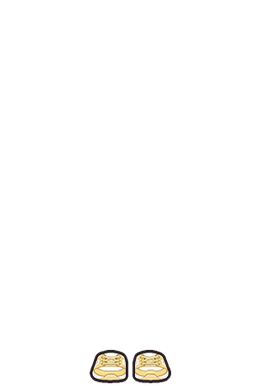
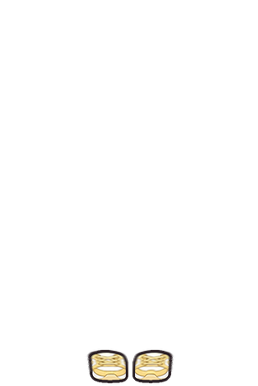
신발 발목 쪽을 넓혀 다리 선과 이어지게 / 가죽 재킷·검정 도복 새 그림으로 다시 가게에, 한벌에 흰 가운·흰 도복 세트 / 그리기용 기본형(흰 배경, 516×772)
Claude-Session: https://claude.ai/code/session_015VxnKS3baGbwJXJNNp74ix

Changed region(s): [[0.3411, 0.9016, 0.6822, 0.9637]]

diff --git a/avatar.js b/avatar.js
@@ -11,10 +11,10 @@ const AV_EAR = new Set([0, 1, 4, 5, 6, 7, 9, 10, 14, 15, 16, 17, 18, 19, 20, 21,
 const AV_NAMES = {
   hair: ["부스스 짧은 머리", "레이어드 단발", "일자 단발", "웨이브 단발", "짧은 스포츠머리", "뾰족 머리", "뽀글 머리", "똥머리", "긴 생머리", "양 똥머리", "양 갈래 땋은 머리", "긴 웨이브", "앞머리 양 똥머리", "앞머리 똥머리", "어깨 웨이브", "양 갈래 머리", "앞머리 단발", "가르마 짧은 머리", "쉼표 머리", "앞머리 긴 웨이브", "삐죽 머리", "곱슬 머리", "올린 삐죽 머리", "옆 가르마 머리"],
   top: ["세일러 블라우스", "크림 후드티", "검정 재킷", "분홍 가디건", "고양이 후드티", "흰 셔츠", "야구 점퍼", "곰돌이 니트", "검정 프릴 블라우스", "줄무늬 티", "하얀 패딩", "빨간 망토", "카키 야상", "멜빵 원피스", "검정 후드티", "레이스 블라우스",
-    "경찰 제복", "소방관 옷", "빨간 로봇 슈트", "군복 셔츠", "우주인 점퍼", "축구 유니폼", "레이싱 점퍼", "해적 조끼", "도복", "가죽 재킷", "해골 후드티",
+    "경찰 제복", "소방관 옷", "빨간 로봇 슈트", "군복 셔츠", "우주인 점퍼", "축구 유니폼", "레이싱 점퍼", "해적 조끼", "검정 도복", "가죽 재킷", "해골 후드티",
     "빨간 리본 세일러", "얼음 공주 드레스", "백설 공주 드레스", "별 가디건", "분홍 블레이저", "민트 블라우스", "보라 조끼", "살구 블라우스", "체크 블레이저", "딸기 블라우스", "하늘 조끼", "하트 가디건",
     "의사 가운", "요리사 옷", "승무원 재킷", "갈색 가디건", "농구 유니폼", "야구 유니폼", "탐험가 셔츠", "앞치마",
-    "산타 옷", "산타 원피스", "요정 옷", "눈사람 옷", "진저브레드 옷", "루돌프 옷", "트리 스웨터 잠옷", "호두까기 인형 옷", "의사 가운 세트", "요리사 세트", "멜빵바지 세트", "승무원 세트", "기장 세트", "가디건 세트"],
+    "산타 옷", "산타 원피스", "요정 옷", "눈사람 옷", "진저브레드 옷", "루돌프 옷", "트리 스웨터 잠옷", "호두까기 인형 옷", "의사 가운 세트", "요리사 세트", "멜빵바지 세트", "승무원 세트", "기장 세트", "가디건 세트", "흰 가운 세트", "흰 도복 세트"],
   shoes: ["맨발", "민트 운동화", "빨간 찍찍이 운동화", "곰돌이 슬리퍼", "검정 운동화", "하늘 고무신발", "남색 슬립온", "갈색 구두", "노란 운동화", "분홍 리본 구두"],
   eye: ["기본 눈", "날렵한 눈", "졸린 눈", "웃는 눈", "윙크", "반짝 눈", "울먹 눈", "화난 눈", "옆 보는 눈", "걱정 눈", "놀란 눈", "시큰둥 눈", "하트 눈", "빙글빙글 눈", "속눈썹 눈", "점 눈"],
   cheek: ["볼터치 없음", "볼 정중앙", "콧잔등 + 주근깨", "볼 정중앙 + 주근깨", "빗금 볼터치", "작은 동그라미", "콧잔등", "크게 발그레"],
@@ -29,7 +29,7 @@ AV_NAMES.pet = ["펫 없음", "강아지", "삼색 고양이", "토끼", "햄스
 const AV_PRICE = {
   pet: [0, 12, 12, 12, 12, 12, 14, 16, 18, 16, 16, 18, 20, 14, 14, 14, 14, 15, 15, 16, 15], // 0이면 무료 (기본으로 입는 것)
   hair: [0, 6, 6, 7, 5, 7, 8, 8, 0, 9, 9, 8, 9, 8, 8, 8, 0, 6, 6, 8, 0, 8, 7, 6], // 20·16: 처음 머리 (남·여)
-  top: [8, 7, 9, 7, 9, 0, 10, 8, 9, 0, 9, 10, 9, 9, 8, 10, 10, 10, 12, 9, 12, 9, 11, 11, 10, 11, 10, 9, 12, 12, 9, 10, 9, 10, 9, 11, 9, 10, 9, 11, 10, 11, 8, 10, 10, 10, 9, 14, 14, 14, 13, 13, 13, 12, 14, 12, 12, 11, 12, 12, 10],
+  top: [8, 7, 9, 7, 9, 0, 10, 8, 9, 0, 9, 10, 9, 9, 8, 10, 10, 10, 12, 9, 12, 9, 11, 11, 10, 11, 10, 9, 12, 12, 9, 10, 9, 10, 9, 11, 9, 10, 9, 11, 10, 11, 8, 10, 10, 10, 9, 14, 14, 14, 13, 13, 13, 12, 14, 12, 12, 11, 12, 12, 10, 12, 11],
   shoes: [0, 0, 6, 8, 5, 6, 5, 7, 6, 7],
   eye: Array(16).fill(0), mouth: Array(16).fill(0), cheek: Array(8).fill(0), // 눈·입·볼터치는 모두 무료
   bottom: [6, 6, 0, 0, 7, 6, 7, 8, 7, 0, 8, 7, 6, 7, 6, 7, 6, 6, 6, 6, 6, 8, 7, 7, 7, 8, 6, 6, 8, 6, 9, 7, 7, 7, 7, 7, 7, 7, 8, 7],
@@ -38,10 +38,10 @@ const AV_ITEMS = Object.entries(AV_NAMES).flatMap(([slot, names]) => names.map((
 const AV_REQ = { pet: "pet-0", shoes: "shoes-1", eye: "eye-0", mouth: "mouth-0", cheek: "cheek-1", hair: "hair-20", top: "top-5", bottom: "bottom-9" }; // 기본 옷 (흰 셔츠·카키 반바지·민트 운동화). 이 칸들은 벗을 수 없어 늘 입고 있음
 const AV_ACC = []; // 장신구 칸 (아직 없음)
 const AV_TABS = [["eye", "눈"], ["mouth", "입"], ["cheek", "볼터치"], ["hair", "헤어"], ["top", "상의"], ["bottom", "하의"], ["full", "한벌"], ["shoes", "신발"], ["pet", "펫"]];
-const AV_FULL = new Set(["top-55", "top-56", "top-57", "top-58", "top-59", "top-60", "top-47", "top-48", "top-49", "top-50", "top-51", "top-52", "top-53", "top-54"]); // 위아래 한 벌 옷: 입으면 하의를 안 그림. 가게에서는 '한벌' 칸
+const AV_FULL = new Set(["top-61", "top-62", "top-55", "top-56", "top-57", "top-58", "top-59", "top-60", "top-47", "top-48", "top-49", "top-50", "top-51", "top-52", "top-53", "top-54"]); // 위아래 한 벌 옷: 입으면 하의를 안 그림. 가게에서는 '한벌' 칸
 // 가게에서 뺀 옷: 몸에 꼭 맞지 않는 상의·하의 (이미 산 학생은 그대로 입고 있음. 번호는 그대로 둬야 산 기록이 안 꼬임)
-const AV_V = "?v=16"; // 그림을 고치면 숫자를 올림 (브라우저에 남은 옛 그림 대신 새로 받게)
-const AV_HIDE = new Set(["shoes-0", "shoes-9", ...[0, 1, 2, 3, 4, 5, 6, 7, 8, 9, 10, 11].map(i => "hair-" + i), ...[6, 16, 17, 18, 19, 20, 21, 22, 23, 26, 39, 40, 41, 42, 43, 24, 25, 27, 28, 29, 30, 31, 32, 33, 34, 35, 36, 37, 38, 44, 45, 46].map(i => "top-" + i),
+const AV_V = "?v=17"; // 그림을 고치면 숫자를 올림 (브라우저에 남은 옛 그림 대신 새로 받게)
+const AV_HIDE = new Set(["shoes-0", "shoes-9", ...[0, 1, 2, 3, 4, 5, 6, 7, 8, 9, 10, 11].map(i => "hair-" + i), ...[6, 16, 17, 18, 19, 20, 21, 22, 23, 26, 39, 40, 41, 42, 43, 27, 28, 29, 30, 31, 32, 33, 34, 35, 36, 37, 38, 44, 45, 46].map(i => "top-" + i),
   ...[7, 13, 14, 15, 17, 19, 20, 21, 22, 23, 27, 29, 32, 33, 34, 35, 36, 37, 38, 39].map(i => "bottom-" + i)]); // 하의: 긴 바지·롱스커트(안 맞음)와 비슷한 것 중 덜 맞는 쪽
 const avInTab = (it, k) => !AV_HIDE.has(it.id) && (k === "acc" ? AV_ACC.includes(it.slot) : k === "full" ? AV_FULL.has(it.id) : k === "top" ? it.slot === "top" && !AV_FULL.has(it.id) : it.slot === k); // 가게 칸에 보일 물건
 // 단위에 맞춘 글: "3 으쓱이 모자라요", "3으쓱으로 바꾸기" (이/가, 으로/로)

diff --git a/index.html b/index.html
@@ -1633,7 +1633,7 @@
     <button class="danger" onclick="resetEverything()">모든 데이터 초기화</button>
   </section>
 </div>
-<script src="avatar.js?v=16"></script><!-- 아바타를 고치면 avatar.js의 AV_V와 같이 숫자를 올림 -->
+<script src="avatar.js?v=17"></script><!-- 아바타를 고치면 avatar.js의 AV_V와 같이 숫자를 올림 -->
 <script>
 setTimeout(() => document.body.classList.add("ready"), 2000); // 혹시 아래에서 오류가 나도 2초 뒤엔 카드를 보여 줌
 // 다른 창(듀얼 모니터)으로 뗀 카드: { 카드: { w: 창, c: 카드, mark: 보드에 돌아올 자리, np: 글자 도구 창 } }

diff --git a/student.html b/student.html
@@ -159,7 +159,7 @@
     </div>
   </div>
 </div>
-<script src="avatar.js?v=16"></script><!-- 아바타를 고치면 avatar.js의 AV_V와 같이 숫자를 올림 -->
+<script src="avatar.js?v=17"></script><!-- 아바타를 고치면 avatar.js의 AV_V와 같이 숫자를 올림 -->
 <script type="module">
 // 서버: classes/{반 코드} = { unit, prices } · classes/{반 코드}/kids/{번호}-{비밀번호} = { n, pt, av, wear, own, buys, kidAt } (이름 없음)
 // 점수는 선생님 보드만 바꿈. 가게 물건은 입어 보기만 하다가 저장할 때 삼(buys에 남김). 선생님 보드가 받아서 점수를 뺌

diff --git a/av/shoesize.py b/av/shoesize.py
@@ -1,8 +1,18 @@
 # 신발 크기 줄이기: 가로 84%(가운데 x=130 기준)·세로 90%(바닥 y=385 기준). 긴 바지 밑으로 옆이 안 튀어나오게
-import numpy as np; from PIL import Image
+import sys, numpy as np; from PIL import Image
 SX, SY, CX, BY = .84, .90, 130, 385
-for k in range(1, 9):
+if sys.argv[1:] != ['ankle']:
+ for k in range(1, 9):
   im = Image.open(f'shoes-{k}.png').convert('RGBA')
   # 출력 (x, y) ← 원본 ((x-CX)/SX+CX, (y-BY)/SY+BY)
   out = im.transform(im.size, Image.AFFINE, (1 / SX, 0, CX - CX / SX, 0, 1 / SY, BY - BY / SY), resample=Image.BICUBIC)
   out.save(f'shoes-{k}.png', optimize=True)
+# 2차(python shoesize.py ankle): 발목 쪽(윗부분)만 바깥으로 넓혀 다리 선과 이어지게 (가운데 x=130 기준). 두 번 돌림: 112%(350→370), 115%(350→372)
+import sys
+if sys.argv[1:] == ['ankle']:
+  for k in range(1, 9):
+    a = np.array(Image.open(f'shoes-{k}.png').convert('RGBA')).astype(float); o = np.zeros_like(a); xs = np.arange(a.shape[1])
+    for y in range(a.shape[0]):
+      f = 1 + .15 * np.clip((372 - y) / 22, 0, 1); src = (xs - CX) / f + CX
+      for c in range(4): o[y, :, c] = np.interp(src, xs, a[y, :, c], left=0, right=0)
+    Image.fromarray(o.round().clip(0, 255).astype(np.uint8)).save(f'shoes-{k}.png', optimize=True)
